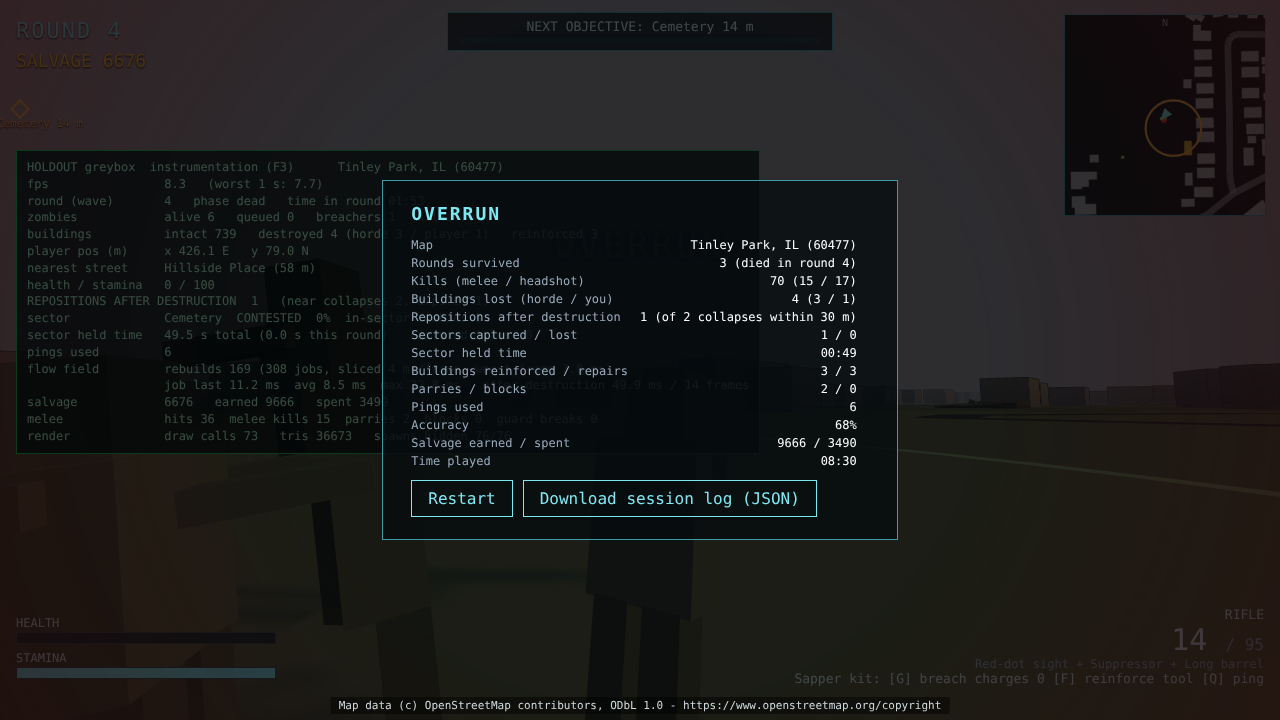
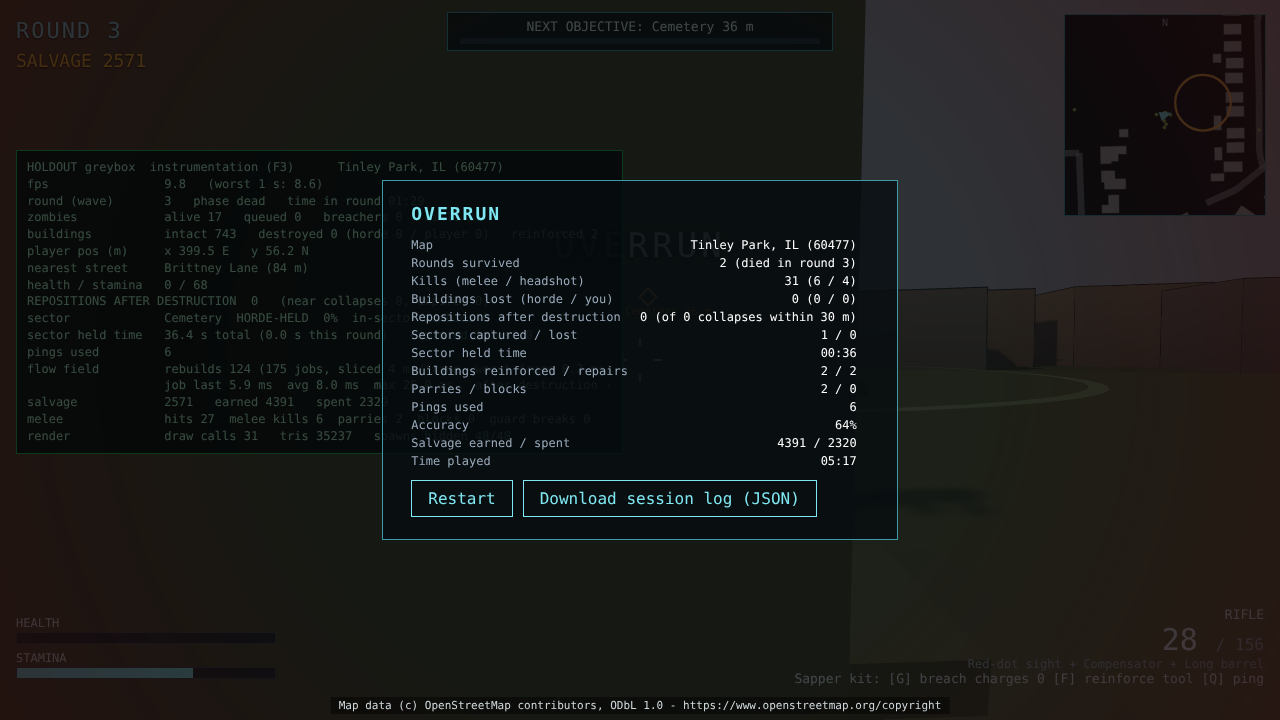
Greybox: autotest passes on the patched build; refresh screenshots
Full scripted run on the build with the free-look fallback: fail state
reached, no console or page errors. Concept doc is a further
mid-workflow snapshot.

Claude-Session: https://claude.ai/code/session_013Qd7FBXVZYJLx4bZ7QopHe

diff --git a/design/gdd/game-concept.md b/design/gdd/game-concept.md
@@ -1,13 +1,13 @@
 # Game Concept: Holdout
 
 *Created: 2026-11-19*
-*Revised: 2026-11-19 (revision 2: new user direction, logged as U1–U9. Revision 2.1: director gates round 1 applied, plus the user's location correction U10)*
-*Status: Draft (Under Review). Round 1 of the real director gates ran on revision 2 and revision 2.1 applies it; AD-CONCEPT-VISUAL and PR-SCOPE need a re-check of their fixed blocking items. The user still has to confirm the facilitator assumptions in the Assumptions and Decisions Log and answer Q2 (team size)*
+*Revised: 2026-11-19 (revision 2: new user direction, logged as U1–U9. Revision 2.1: director gates round 1 applied, plus the user's location correction U10. Revision 2.2: director gates round 2 applied, plus the user's restated location correction)*
+*Status: Draft (Under Review). Round 2 of the real director gates ran on revision 2.1 and revision 2.2 applies it. No gate has a blocking item left that the text can fix: PR-SCOPE's last blocking item is Q2 (team size, budget, runway), which only the user can answer. The user still has to confirm the facilitator assumptions in the Assumptions and Decisions Log (especially A44 via Q18) and answer Q2 and Q20*
 
-> **Creative Director Review (CD-PILLARS)**: CONCERNS (round 1, `creative-director` agent, 2026-11-19). No blocking items; the concerns are addressed in revision 2.1 (see Director Gate Reviews)
-> **Art Director Review (AD-CONCEPT-VISUAL)**: CONCERNS (round 1, `art-director` agent, 2026-11-19). Both blocking items (shape language; colour layers) are fixed in revision 2.1; a re-check is pending
-> **Technical Director Review (TD-FEASIBILITY)**: CONCERNS (round 1, `technical-director` agent, 2026-11-19). Valid only for the assumed team of 5 (A14, Q2); HIGH RISK if the team is one or two people
-> **Producer Review (PR-SCOPE)**: OPTIMISTIC (round 1, `producer` agent, 2026-11-19). All six blocking items are addressed in revision 2.1 (re-sized MVP plan, cut list, split Vertical Slice, re-sized 1.0, Q2 made the gating question); a re-check is pending. UNREALISTIC if the developer is solo
+> **Creative Director Review (CD-PILLARS)**: CONCERNS (round 2, `creative-director` agent, 2026-11-19). No blocking items. Its round-2 concerns repeat round 1 and were already addressed in revision 2.1; the location and "Lancaster" items are answered in revision 2.2 (U10 restated, A44). See Director Gate Reviews
+> **Art Director Review (AD-CONCEPT-VISUAL)**: STRONG (round 2, `art-director` agent, 2026-11-19). No blocking items; its art-bible notes are applied in revision 2.2 (A45)
+> **Technical Director Review (TD-FEASIBILITY)**: CONCERNS (round 2, `technical-director` agent, 2026-11-19). No blocking items. Valid only for the assumed team of 5 (A14, Q2); HIGH RISK if the team is one or two people
+> **Producer Review (PR-SCOPE)**: OPTIMISTIC (round 2, `producer` agent, 2026-11-19). Three of its four blocking items are fixed in revision 2.2 (A46: a complete MVP build plan of about 14–15 months, a shippable fallback tier, the first map's full art and audio pass placed in a tier); the fourth is Q2. A re-check is pending. UNREALISTIC if the developer is solo
 >
 > **How this document was made.** Revision 1 came from `/brainstorm` run non-interactively (settings: `workflow: full`,
 > `review_mode: full`, `automation: guided`, `docs.density: thorough`). The user supplied the concept, so Phase 1
@@ -23,6 +23,11 @@
 > **Revision 2.1** applies round 1 of the real director gates (agent-run, 2026-11-19; see Director Gate Reviews) and the
 > user's location correction (U10: the area is not "Lancaster"; the extract was checked against it). The facilitator
 > calls made to apply them are logged as A38–A43 and can be overruled.
+>
+> **Revision 2.2** applies round 2 of the real director gates (agent-run, 2026-11-19) and the user's restated location
+> correction (U10: the intended area is at 167th Street in the middle of the map, not "Lancaster"; the location was
+> checked again, locally against the extract). The facilitator calls made to apply them are logged as A44–A46 and can
+> be overruled.
 
 ---
 
@@ -48,7 +53,7 @@ a real town, where you choose which walls come down."*
 | **Player Count** | 1–4 online co-op. Designed for 4; 2–3 players are supported by the squad-gap kit (A24); solo is a scaled mode from the Vertical Slice. No PvP. Deliberately **not** a large-headcount game (U5) |
 | **Session Length** | A match runs 30–90 min. The first evac window is at round 10 (about 35–45 min). Typical match: 45–75 min |
 | **Monetization** | Premium (assumed USD 19.99–24.99). Possible cosmetic-only DLC after launch; never paid power (A10) |
-| **Estimated Scope** | Large (about 40–44 months, team of 5 plus outsourcing; an assumption, **provisional until Q2** is answered; see A14, A43 and Scope Tiers) |
+| **Estimated Scope** | Large (about 44–48 months, team of 5 plus outsourcing; an assumption, **provisional until Q2** is answered; see A14, A46 and Scope Tiers) |
 | **Comparable Titles** | The large-scale squad shooter series named first in Inspiration and References (roles, gadgets, squad play, ballistics and sector feel); *Call of Duty* Zombies mode (round structure); *Killing Floor 2* (wave co-op with spending between waves); *Warhammer: Vermintide 2* (first-person melee and guns against hordes). Destruction references: *Rainbow Six Siege*, *The Finals* |
 
 ---
@@ -561,17 +566,22 @@ landmarks, and by tuning the gameplay layer. We never move real footprints or st
 
 **The first test map is a ~1.2 km × 1.2 km area of suburban Tinley Park, Illinois (USA)** (U8). 167th Street, a
 secondary road, crosses it east–west about two-thirds of the way north. OpenStreetMap divides the area into named
-subdivisions (Kimberly Heights north of 167th Street, Lancaster Highlands south of it) and names the wooded park in
-the south after the latter. **No map name, sector label or slice name uses either subdivision's name or the word
-"Lancaster"** (U8, U10): the map is "Tinley Park, IL (60477)" everywhere. It is a hard test for the pipeline: no
-height tags, no shop types for caches, no fences or trees, and a flat ground plane.
+subdivisions (Kimberly Heights north of 167th Street; south of it, several whose names begin with "Lancaster") and
+names the wooded park in the south after one of them. These are OSM's labels, not the map's identity: **no map name,
+sector label, slice name or player-facing text uses any subdivision's name or the word "Lancaster"** (U8, U10). The
+map is "Tinley Park, IL (60477)" everywhere, and its focus is the 167th Street corridor across the middle of the box.
+It is a hard test for the pipeline: no height tags, no shop types for caches, no fences or trees, and a flat ground
+plane.
 
-**Location check (2026-11-19, against the user's correction U10).** The extract was checked against the area the
-user specified: that area is inside the box with margin on every side, so the box is right and the name is right.
-Two landmarks cross the box edge: **Lewis Park** (W), about half outside, and the **Tinley Creek Green trail** (E),
-mostly outside. *Action before the level GDD locks the full map:* re-extract with the box widened west (and east if
-Creek Trail stays a sector), with its edges snapped to a coarse grid so the boundary follows landmarks and round
-numbers, then re-measure the table below. The MVP slice (below) does not depend on either edge landmark.
+**Location check (revised 2026-11-19, after the user restated U10).** The user asked again for the geolocation to be
+checked and repeated that the area is not "Lancaster". The check was done **locally against the committed extract**;
+no address or place was sent to any outside service. Result: the area the user named is inside the box, at 167th
+Street, with about 400 m or more of margin on every side. The box is right, the name is right, and the home sector
+and the MVP slice now sit on that middle stretch of 167th Street (A44). Two landmarks cross the box edge: **Lewis
+Park** (W), about half outside, and the **Tinley Creek Green trail** (E), mostly outside. *Action before the level
+GDD locks the full map:* re-extract with the box widened west (and east if Creek Trail stays a sector), with its
+edges snapped to a coarse grid so the boundary follows landmarks and round numbers, then re-measure the table below.
+The MVP slice (below) depends on neither edge landmark.
 
 Measured from the extract (`prototypes/real-street-holdout-concept/pipeline/data/tinley-park-60477.osm`) and the
 prototype pipeline's report (`.../data/metrics.json`), 2026-11-19:
@@ -593,11 +603,11 @@ prototype pipeline's report (`.../data/metrics.json`), 2026-11-19:
 
 | Sector (in-game label) | OSM source | Character | Role in the match |
 | ---- | ---- | ---- | ---- |
-| **167th Street** | The secondary road crossing the map east–west | A long straight axis, verges, intersections, corner houses, wrecks | Default **home sector** (A38): capture zone and enterable anchor houses at the **Ridgeland Avenue crossing**. The frontline spine: long sightlines from round 1 and doorway fights in the corner houses |
+| **167th Street** | The secondary road crossing the map east–west | A long straight axis, verges, intersections, corner houses, wrecks | Default **home sector** (A38, A44): capture zone and enterable anchor houses where **Anne Marie Avenue (from the south) and Patricia Avenue (from the north) meet 167th Street**, a staggered crossing in the middle of the map. The frontline spine: long sightlines from round 1 and doorway fights in the corner houses |
 | **Creek Woods** | The wooded park along Tinley Creek (S) | Woods, creek banks, short sightlines | Close quarters where melee earns its place; creek crossings are chokepoints. Labelled after the creek; the park's OSM name is not used (U10) |
 | **School Grounds** | Kimberley Heights School grounds (N) | An anchor building plus fields | Defensible anchor and landing zone; open ground for ballistics; rendered as a generic school under a generic label (A29) |
 | **Lewis Park Fields** | Lewis Park and its sports fields (W) | Open fields, long sightlines, little cover | Landing zone; a showcase for the Spotter and for ballistics. About half the park is outside the current box, so it waits for the re-extraction |
-| **Cemetery** | Zion Lutheran Cemetery (E, just south of 167th Street) | Open ground and low cover | An exposed crossing; never a landing zone; sensitivity rules apply |
+| **Cemetery** | Zion Lutheran Cemetery (E, just south of 167th Street, next to the MVP slice's east edge) | Open ground and low cover | An exposed crossing; never a landing zone; sensitivity rules apply |
 | **Creek Trail** | The Tinley Creek Green paved trail (E edge, along 167th Street) | A paved trail corridor, mostly outside the current box | A horde flank lane into the east of the map; stays a sector only if the box is widened east |
 | *Residential blocks* | The residential streets north and south of 167th Street | Houses with garages, yards, driveways | Mostly connective: the ground between sectors where the horde pushes and the squad fortifies. **Block sectors are allowed** (U6): the level GDD may promote a block with a defensible anchor house to a sector, labelled by its bounding streets (Q17) |
 
